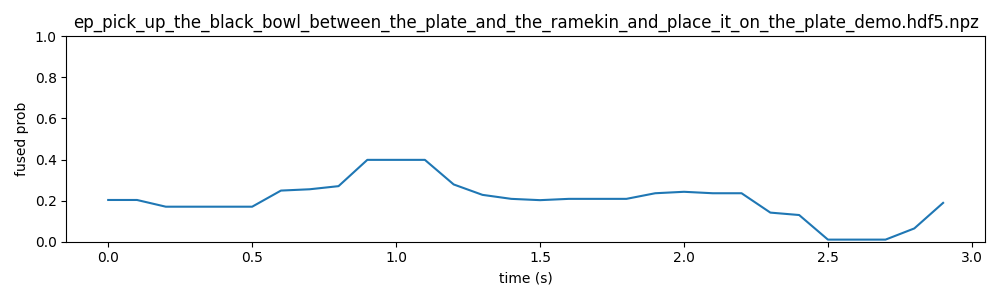
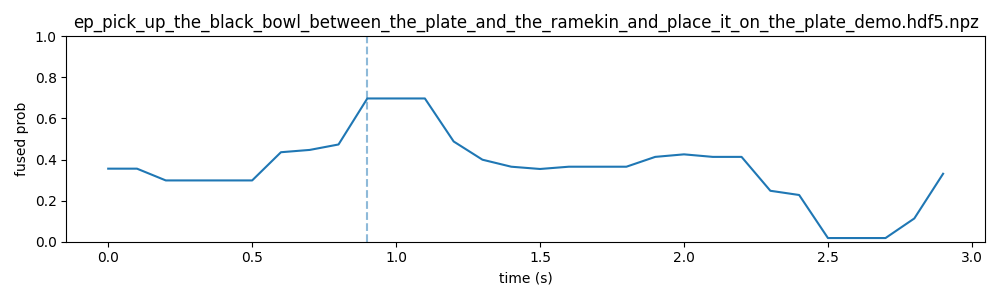
Added percentile boundary detection

diff --git a/scripts/detect_events.py b/scripts/detect_events.py
@@ -46,6 +46,10 @@ def main():
     p.add_argument("--fps", type=float, default=12.0)
     p.add_argument("--fusion", choices=["simple","mlp"], default="simple")
     p.add_argument("--fusion-model-dir", default=None)
+    p.add_argument("--thr-pct", type=float, default=-1.0,
+               help="If >=0, use this percentile of the per-episode fused score as the threshold (e.g., 90).")
+    p.add_argument("--thr-pct-min", type=float, default=0.0,
+               help="Floor for the auto threshold, to avoid picking too-low values (e.g., 0.45).")
     args = p.parse_args()
 
     feat_dir = os.path.join(args.work_dir, "features", args.model_key)
@@ -115,7 +119,15 @@ def main():
 
         # post-process
         p_s = smooth_prob(p, kind="median", window=args.smooth_window)
-        cuts = pick_boundaries(p_s, thr=args.threshold, nms_win_frames=nms_win, min_duration_frames=min_dur)
+
+        if args.thr_pct is not None and args.thr_pct >= 0.0:
+            # auto threshold from this episode's score distribution
+            thre = float(np.percentile(p_s, args.thr_pct))
+            thre = max(thre, float(args.thr_pct_min))
+        else:
+            thre = float(args.threshold)
+
+        cuts = pick_boundaries(p_s, thr=thre, nms_win_frames=nms_win, min_duration_frames=min_dur)
         boundary_hard = np.zeros((T,), dtype=np.uint8)
         boundary_hard[cuts] = 1
         event_id, event_progress = ids_and_progress(T, cuts)

diff --git a/scripts/eval_bc.py b/scripts/eval_bc.py
@@ -50,7 +50,7 @@ def main():
     if not pred_files:
         raise FileNotFoundError(f"No predictions found in {preds_dir}. Run predict_actions first.")
 
-    win = int(round(args.window-sec * args.fps)) if hasattr(args, "window-sec") else int(round(args.window_sec * args.fps))
+    win = int(round(args.window_sec * args.fps)) if hasattr(args, "window_sec") else int(round(args.window_sec * args.fps))
     # argparse hyphen bug workaround:
     win = int(round(args.window_sec * args.fps))
 
